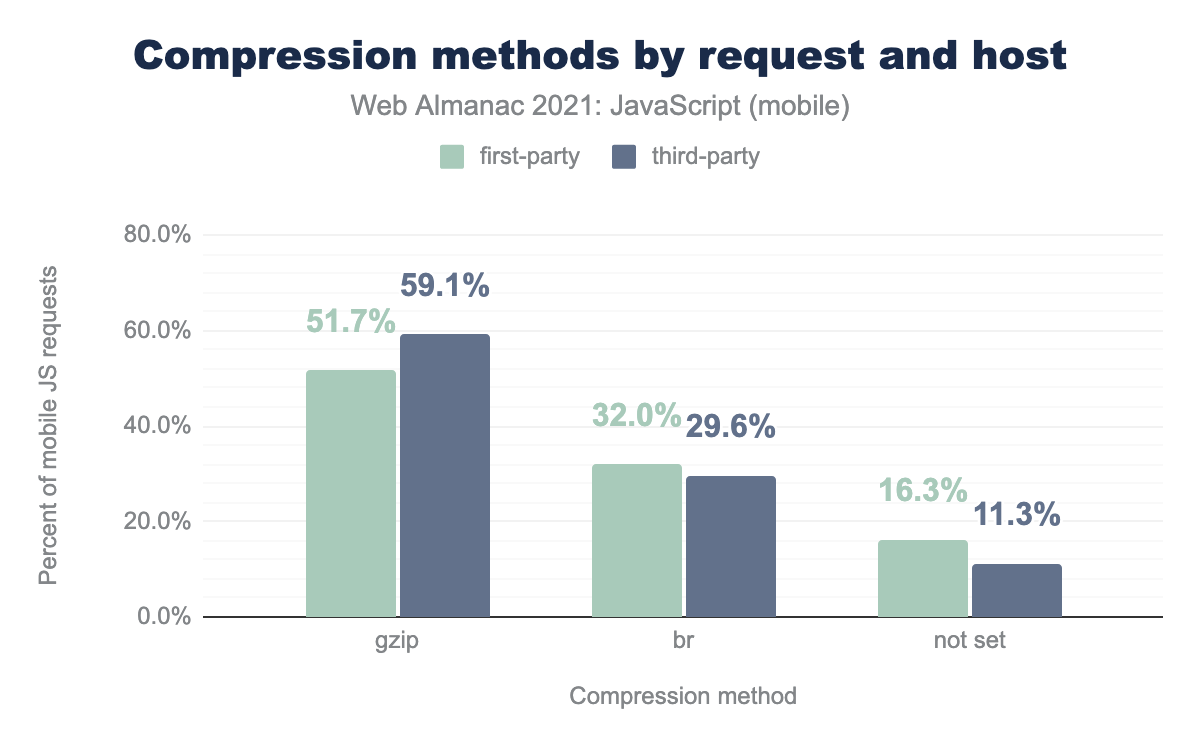
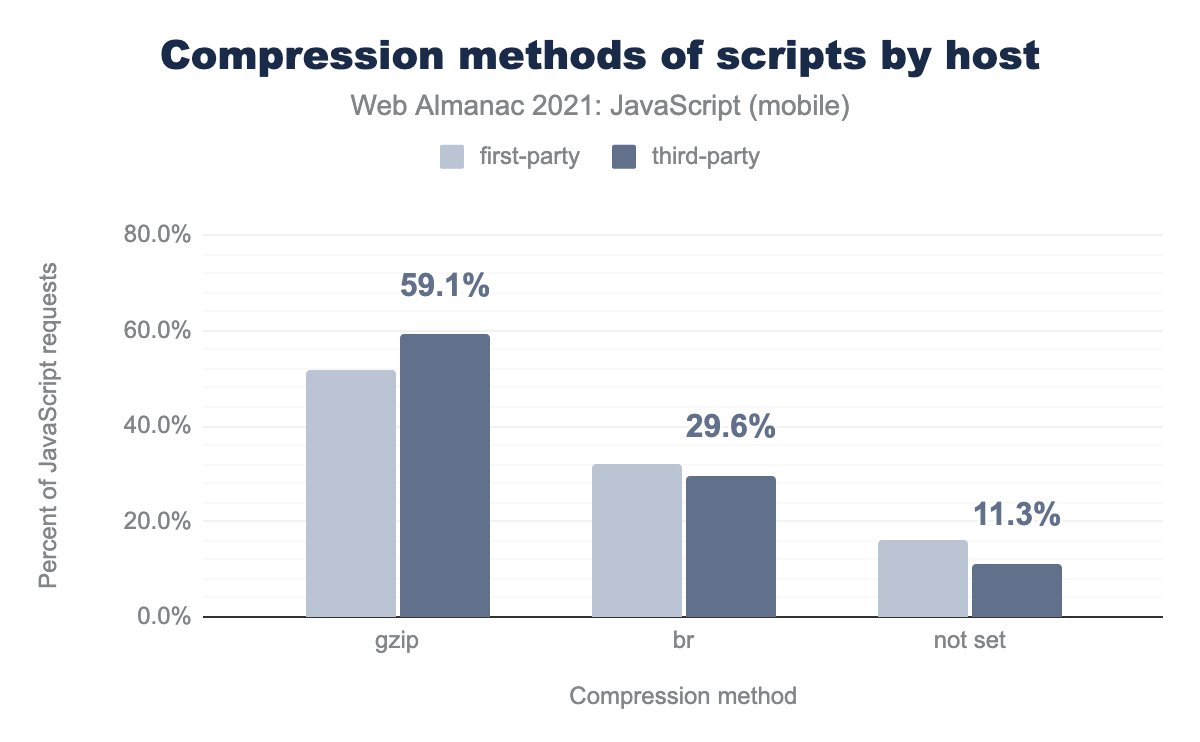
how is it delivered

diff --git a/src/content/en/2021/javascript.md b/src/content/en/2021/javascript.md
@@ -342,17 +342,17 @@ The median desktop page loads one JavaScript resource with the `preload` hint an
 
 While the median number of `preload` hints per mobile page has stayed the same, the number of `prefetch` hints has decreased from three to two per page. Note that at the median, these resuts are identical for both mobile and desktop pages.
 
-## How is JavaScript delivered
+## How is JavaScript delivered?
 
-When sending resources over the network, it becomes important to look at an efficient way of doing it, and compressing these resources using different techniques either statically or dynamically boosts the performance and makes the process faster.
+JavaScript resources can be loaded more efficiently over the network with compression and minification. In this section, we'll explore the usage of both techniques to better understand the extent to which they're being utilized effectively.
 
 ### Compression
 
-Most of the compressed resources use either <a hreflang="en" href="https://www.gnu.org/software/gzip/manual/gzip.html">gzip</a> compression, <a hreflang="en" href="https://github.com/google/brotli">brotli</a> (br) compression, or a compression technique that is not set.
+Compression is the process of reducing the file size of a resource as it gets transferred over the network. This can be an effective way to improve the download times of JavaScript resources, which are highly compressible. For example, the `almanac.js` script loaded on this page is 28 KB, but only 9 KB over the wire thanks to compression.
 
 {{ figure_markup(
   image="compression-requests.png",
-  caption="Compression methods usage percentage by request.",
+  caption="Adoption of the methods for compressing JavaScript resources.",
   description="Bar chart showing the percent of the usage of compression methods. 55% of JavaScript requests apply the gzip compression on mobile, 31% apply br compression, and 14% do not apply any compression method.",
   chart_url="https://docs.google.com/spreadsheets/d/e/2PACX-1vTpHzC_cMZYj2VLzQ4ODK3uvZkNBXtwdAZriZaBwjLjUM1SGwwmJs9rv8T6OtNdXox29PQ34CasUUwc/pubchart?oid=1306457429&format=interactive",
   sheets_gid="1182320606",
@@ -360,15 +360,15 @@ Most of the compressed resources use either <a hreflang="en" href="https://www.g
   )
 }}
 
-It is noted that 55.4% of mobile JavaScript requests apply the gzip compression method, whereas 30.8% of requests from mobile devices have the brotli compression applied.
+Most JavaScript resources are either compressed using <a hreflang="en" href="https://www.gnu.org/software/gzip/manual/gzip.html">Gzip</a>, <a hreflang="en" href="https://github.com/google/brotli">Brotli</a> (br), or not compressed at all (not set). 55.4% of mobile JavaScript resources use Gzip, whereas 30.8% of resources are compressed with Brotli.
 
-An interesting observation here is the trend of the usage of these compression methods [compared to the previous year](../2019/javascript#fig-10). The usage of gzip has gone down by almost 10% and brotli has increased by 11%. The trend definitely indicates the focus on smaller size files with more levels of compression that Brotli provides as compared to gzip.
+Interestingly, compared to [the state of JavaScript compression in 2019](../2019/javascript#fig-10), Gzip has gone down by almost 10 percentage points and Brotli has increased by 16 percentage points. The trend illustrates the shift to focus on smaller size files with higher levels of compression that Brotli provides as compared to Gzip.
 
-With such comparable data, we checked if the percentage difference is somehow impacted by the resources being first-party or third-party.
+To help explain this change, we analyzed the compression methods of first and third-party resources.
 
 {{ figure_markup(
   image="compression-first-third-party.png",
-  caption="Compression methods for first party vs third party.",
+  caption="Adoption of the methods for compressing first and third-party JavaScript resources on mobile pages.",
   description="Bar chart showing the percent of the usage of compression methods for first-party and third-party. 59% of third-party JS requests apply the gzip compression on mobile, 30% third-party requests apply br compression, and 11% third-party scripts do not apply any compression method.",
   chart_url="https://docs.google.com/spreadsheets/d/e/2PACX-1vTpHzC_cMZYj2VLzQ4ODK3uvZkNBXtwdAZriZaBwjLjUM1SGwwmJs9rv8T6OtNdXox29PQ34CasUUwc/pubchart?oid=1269923134&format=interactive",
   sheets_gid="821396474",
@@ -376,7 +376,7 @@ With such comparable data, we checked if the percentage difference is somehow im
   )
 }}
 
-59.1% of third-party scripts are gzipped and 29.6% are brotli compressed. Looking at first-party scripts, these are 51.7% with gzip compression but only 32.0% with brotli. There are still 11% of third-party scripts that do not have any compression method defined for the resources.
+59.1% of third-party scripts on mobile pages are gzipped and 29.6% are compressed with Brotli. Looking at first-party scripts, these are 51.7% with Gzip compression but only 32.0% with Brotli. There are still 11.3% of third-party scripts that do not have any compression method defined.
 
 {{ figure_markup(
   image="uncompressed-first-third-party.png",
@@ -388,17 +388,17 @@ With such comparable data, we checked if the percentage difference is somehow im
   )
 }}
 
-The way preloading all our requests negates the impact of the resource hint, a similar problem occurs when we try to optimize and compress a resource that doesn't need compression and is already small. It is observed that 90% of uncompressed third party JavaScript resources are less than 5 KB, though first-party requests trail a bit.
+90% of uncompressed third-party JavaScript resources are less than 5 KB, though first-party requests trail a bit. This may help explain why so many JavaScript resources go uncompressed. Due to the diminishing returns of compressing small resources, a small script may cost more in terms of the resource consumption of server-side compression and client-side decompression than the performance benefits of saving of a few bytes over the network.
 
 ### Minification
 
-When working towards reducing the script parsing time, we tend to focus on all the opportunities to make our code smaller and more efficient. One such idea is to minify the files and bring down the bytes usage.
+While compression only changes the transfer size of JavaScript resources over the network, minification actually makes the code itself smaller and more efficient. This not only helps to reduce the load time of the script but also the amount of time the client spends parsing the script.
 
-The Lighthouse report also <a hreflang="en" href="https://web.dev/unminified-javascript/">highlights the unminified JavaScript being used</a> and lists these unminified files and the opportunities to save.
+The <a hreflang="en" href="https://web.dev/unminified-javascript/">unminified JavaScript</a> Lighthouse audit highlights the opportunities of minification.
 
 {{ figure_markup(
   image="unminified-js-audit-scores.png",
-  caption="Percentage distribution of unminified JS audit scores.",
+  caption="Distribution of unminified JavaScript audit scores.",
   description='Bar chart showing the percentage distribution of unminified JS audit scores. 67% of mobile pages have an "unminified JavaScript" score between 0.9 and 1.0',
   chart_url="https://docs.google.com/spreadsheets/d/e/2PACX-1vTpHzC_cMZYj2VLzQ4ODK3uvZkNBXtwdAZriZaBwjLjUM1SGwwmJs9rv8T6OtNdXox29PQ34CasUUwc/pubchart?oid=1572896641&format=interactive",
   sheets_gid="1539653841",
@@ -406,14 +406,15 @@ The Lighthouse report also <a hreflang="en" href="https://web.dev/unminified-jav
   )
 }}
 
-Here, 0.00 represents the worst score whereas 1.00 represents the best score. It is noted that 67.1% of mobile pages have an audit score between 0.9 and 1.0, meaning that there are still more than 30% of mobile pages with a unminified JavaScript score of less than 0.9 with less or no minification.
-This, as compared to the results from the last year(2020), shows a regression of 10% in mobile pages with "unminified JS" score between 0.9 and 1.0. 
+Here, 0.00 represents the worst score whereas 1.00 represents the best score. 67.1% of mobile pages have an audit score between 0.9 and 1.0. That means there are still more than 30% of pages that have an unminified JavaScript score worse than 0.9 and could make better use of code minification. Compared to the results from the [2020 edition](../2020/javascript#fig-16), the percent of mobile pages with an "unminified JS" score between 0.9 and 1.0 fell by 10 points.
 
-To understand the reason for the less score this year, let's dive deeper to look at how many bytes per page are unminified.
+{# TODO: Rick is checking with the Lighthouse team to see if there were any major scoring algorithm changes to this audit in the past year. That would be a benign explanation for the 10 point drop in good scores. This change is really surprising, good find! #}
+
+To understand the reason for the worse scores this year, let's dive deeper to look at how many bytes per page are unminified.
 
 {{ figure_markup(
   image="unminified-js-bytes.png",
-  caption="Percentage distribution of unminified JS bytes per page.",
+  caption="Distribution of the amount of unminified JavaScript per page, in KB.",
   description="Bar chart showing the percentage distribution of unminified JS bytes per page. 57% of mobile pages have 0 KB of unminified JS whereas 18% of those have 0-10 kilobytes of unminified JS.",
   chart_url="https://docs.google.com/spreadsheets/d/e/2PACX-1vTpHzC_cMZYj2VLzQ4ODK3uvZkNBXtwdAZriZaBwjLjUM1SGwwmJs9rv8T6OtNdXox29PQ34CasUUwc/pubchart?oid=1069289665&format=interactive",
   sheets_gid="1511556407",
@@ -421,13 +422,11 @@ To understand the reason for the less score this year, let's dive deeper to look
   )
 }}
 
-It is found that 57.4% of mobile pages have 0 KB of unminified JavaScript. This indicates that more than 50% of mobile pages have 100% minification with 0 KBs of unminified JavaScript found. On the other hand, less than 20% of mobile pages have 0-10 KB of unminified JavaScript with scope for better minification score. The rest have less to no minification and these are the pages that fall in category of bad "unminified JavaScript" audit score that we saw in the previous chart.
-
-The first-party vs. third-party analysis in this case shows that 82% of the average mobile pages' unminified JavaScript bytes actually come from first-party scripts. This indicates that the third-party scripts are definitely doing better than the first-party ones in the case of minification.
+57.4% of mobile pages have 0 KB of unminified JavaScript as reported by the Lighthouse audit. 17.9% of mobile pages have between 0 and 10 KB of unminified JavaScript. The rest of the pages have an increasing number of unminified JavaScript bytes and correspond to those having poor "unminified JavaScript" audit scores in the previous chart.
 
 {{ figure_markup(
   image="average-unminified-js-bytes.png",
-  caption="Average distribution of unminified JavaScript Bytes.",
+  caption="Average distribution of unminified JavaScript bytes.",
   description="Pie chart showing the average distribution of unminified JavaScript bytes. 82% of the average mobile page's unminified JavaScript bytes actually come from first-party scripts.",
   chart_url="https://docs.google.com/spreadsheets/d/e/2PACX-1vTpHzC_cMZYj2VLzQ4ODK3uvZkNBXtwdAZriZaBwjLjUM1SGwwmJs9rv8T6OtNdXox29PQ34CasUUwc/pubchart?oid=1119550643&format=interactive",
   sheets_gid="127709080",
@@ -435,22 +434,33 @@ The first-party vs. third-party analysis in this case shows that 82% of the aver
   )
 }}
 
+When we segmented the unminified JavaScript resources by host, we found that 82.0% of the average mobile page's unminified JavaScript bytes actually come from first-party scripts.
+
 ### Source maps
 
-Source maps are files sent along with the JavaScript resource files to let the browser map the minified or compressed file to their original version of that file. This is how source maps help us in debugging in the production environment.
+[Source maps](https://developer.mozilla.org/en-US/docs/Tools/Debugger/How_to/Use_a_source_map) are hints sent along with JavaScript resources that allow the browser to map the minified resource back to their source code. This is especially helpful to web developers for debugging in a production environment.
 
 {{ figure_markup(
   content="0.1%",
-  caption="Mobile pages using the sourcemap header.",
+  caption="Percent of mobile pages that use the `SourceMap` header.",
   classes="big-number",
   sheets_gid="1186092564",
   sql_file="sourcemap_header.sql"
   )
 }}
 
-It is found that only 0.1% of mobile pages use the SourceMap response header on script resources. One reason for this extremely small percentage could be that not many sites choose to put their original source code in production through the source map.
+Only 0.1% of mobile pages use the [`SourceMap`](https://developer.mozilla.org/en-US/docs/Web/HTTP/Headers/SourceMap) response header on script resources. One reason for this extremely small percentage could be that not many sites choose to put their original source code in production through the source map.
 
-An analysis of how many sites actually send the source map header on their first-party or third-party scripts shows that 0.1% of the JavaScript requests that include a SourceMap header on mobile are for first-party scripts.
+{{ figure_markup(
+  content="98.0%",
+  caption="Percent of JavaScript resources on mobile pages using the `SourceMap` header that are first-party resources.",
+  classes="big-number",
+  sheets_gid="2057978707",
+  sql_file="sourcemap_header.sql"
+  )
+}}
+
+Interestingly, at 98.0%, nearly all of the `SourceMap` usage on mobile JavaScript resources can be attributed to first-parties. Only 2.0% of scripts with the header on mobile pages are third-party resources.
 
 ## Libraries and frameworks
 
